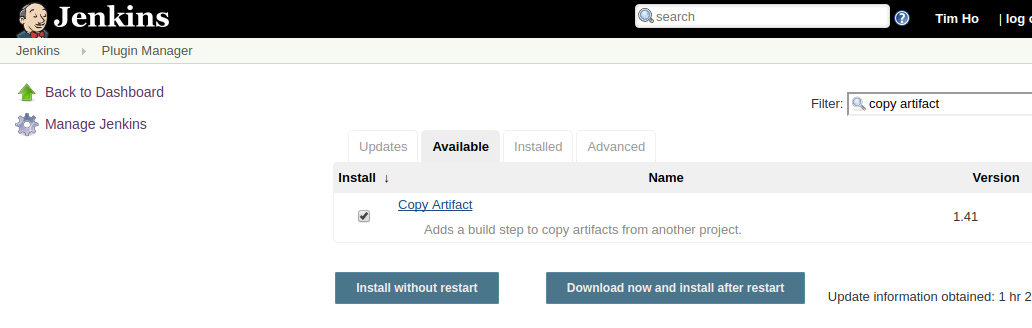
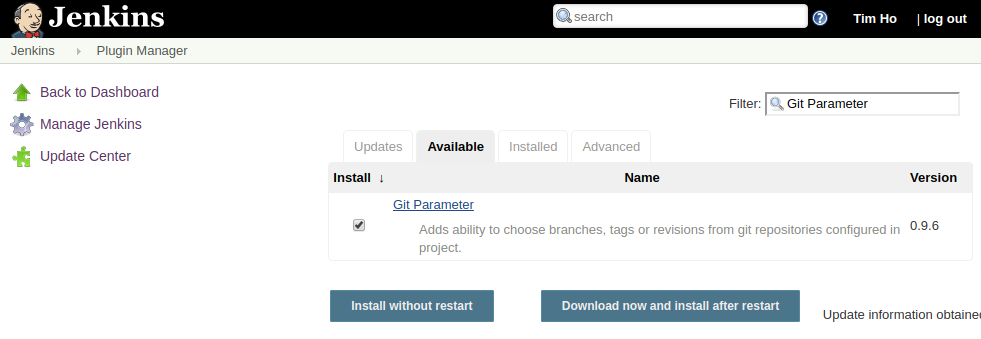
jenkins构建指定的分支

diff --git a/source/_posts/jenkins-install.md b/source/_posts/jenkins-install.md
@@ -515,9 +515,24 @@ Hello World!
 **将脚本存放在`jar.sh`中的好处是此脚本可以供多个项目共同使用，只要在`Execute shell`中根据不同项目定义不同的变量值即可。**
 
 
-#### 示例D、当构建出错的时候，如何回滚(rollback)到上一个版本
-要实现这个功能，我们要在jenkins安装一个插件`Copy Artifact`：
+#### 示例D、构建指定的git分支
+要实现这个功能，我们要在jenkins安装一个插件`Git Parameter`：
 ![](/img/jenkins-30.png "")
+
+我们还是以示例A的为例，去到它的配置中，选中`This project is parameterized`，点`Add parameter`->`Git Parameter`，设置如下：
+![](/img/jenkins-31.png "")
+
+并在`Branches to build`按下图所示填：
+![](/img/jenkins-32.png "")
+
+回到mvn-test这个job，你会发现原先的`Build Now`已经变成了`Build with Parameters`，我们点它：
+![](/img/jenkins-33.png "")
+
+至此，就可以构建我们想构建的分支了。
+
+#### 示例E、当构建出错的时候，如何回滚(rollback)到上一个版本
+要实现这个功能，我们要在jenkins安装一个插件`Copy Artifact`：
+![](/img/jenkins-34.png "")
 
 
 
